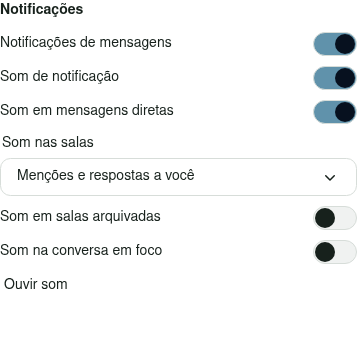
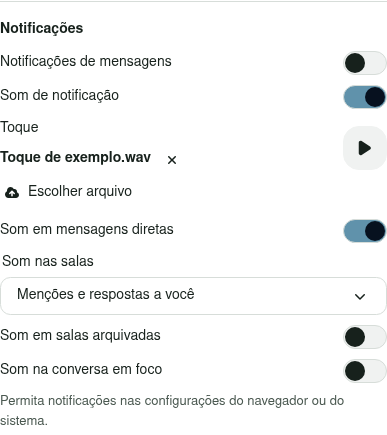
Document Oiê v0.0.1-rc.23

diff --git a/content/docs/cli/index.md b/content/docs/cli/index.md
@@ -6,7 +6,7 @@ language: pt-BR
 
 # CLI do Oiê
 
-O `oiectl` acessa um motor do Oiê em execução. Os exemplos usam uma instância local em `http://127.0.0.1:8080`. O [Oiê v0.0.1-rc.22](../../baixar/index.md) usa a API 0.34.0. A versão do CLI distribuída em separado acompanha o contrato 0.30.1.
+O `oiectl` acessa um motor do Oiê em execução. Os exemplos usam uma instância local em `http://127.0.0.1:8080`. O [Oiê v0.0.1-rc.23](../../baixar/index.md) usa a API 0.34.0. A versão do CLI distribuída em separado acompanha o contrato 0.30.1.
 
 ## Instalar o CLI
 
@@ -20,14 +20,14 @@ oiectl version v0.30.1 (spec openapi/engine/v0.30.1)
 
 ## Compilar e conectar
 
-Use Make e Go 1.27.4 ou mais recente para compilar e iniciar o Oiê a partir do [código-fonte da v0.0.1-rc.22](https://github.com/araihu/oie/tree/ffa480cb81a5b79287191a2220d554c4180be3ac).
+Use Make e Go 1.27.4 ou mais recente para compilar e iniciar o Oiê a partir do [código-fonte da v0.0.1-rc.23](https://github.com/araihu/oie/tree/c5c3f37aeb815dd9ee4a1e94512ebf7fd2467071).
 
 ```sh
 make build build-cli
 bin/oie --role local --listen 127.0.0.1:8080 --data-dir ./data-cli
 ```
 
-Os exemplos usam o CLI compilado com a rc.22. `bin/oiectl --version` mostra `oiectl version devel (OpenAPI 0.34.0)`. Se instalou o binário no `PATH`, use `oiectl` no lugar de `bin/oiectl`.
+Os exemplos usam o CLI compilado com a rc.23. `bin/oiectl --version` mostra `oiectl version devel (OpenAPI 0.34.0)`. Se instalou o binário no `PATH`, use `oiectl` no lugar de `bin/oiectl`.
 
 Em outro terminal, no mesmo checkout, confira a conexão com a API.
 
@@ -39,7 +39,7 @@ bin/oiectl system engine --output json
 
 Em um perfil novo, abra [a interface local](http://127.0.0.1:8080) no navegador. [Adicione e conecte sua conta XMPP](../manual/index.md#contas-xmpp). Em **Nova conversa**, informe outro endereço XMPP e selecione **Abrir conversa**. Ela aparecerá em `conversations list`.
 
-Para ver a conexão e o envio pela API em um ambiente de desenvolvimento, consulte o [exemplo com servidor XMPP local](https://github.com/araihu/oie/blob/ffa480cb81a5b79287191a2220d554c4180be3ac/README.md#connect-and-message-through-the-api). Para consultar um motor independente que já está em execução, ajuste `OIECTL_SERVER` ou use `--server` em um único comando. Para comandos que recebem JSON, use `--body-stdin` ou `--body-file`. Use um arquivo privado ou stdin para dados com senha.
+Para ver a conexão e o envio pela API em um ambiente de desenvolvimento, consulte o [exemplo com servidor XMPP local](https://github.com/araihu/oie/blob/c5c3f37aeb815dd9ee4a1e94512ebf7fd2467071/README.md#connect-and-message-through-the-api). Para consultar um motor independente que já está em execução, ajuste `OIECTL_SERVER` ou use `--server` em um único comando. Para comandos que recebem JSON, use `--body-stdin` ou `--body-file`. Use um arquivo privado ou stdin para dados com senha.
 
 Veja [Arquitetura e deploy](../arquitetura/index.md#motor-hospedado) para hospedar um motor e acessá-lo por uma conexão privada.
 
@@ -83,11 +83,11 @@ Confira o ID da conta com `oiectl accounts list`. O comando abaixo remove a cont
 oiectl accounts remove --account-id ID_DA_CONTA
 ```
 
-Use o CLI compilado a partir do código-fonte da rc.22 e um motor com a API 0.34.0 ou posterior.
+Use o CLI compilado a partir do código-fonte da rc.23 e um motor com a API 0.34.0 ou posterior.
 
 ## Pesquisar mensagens favoritas
 
-Com o CLI compilado da rc.22, consulte as mensagens favoritas pelo texto atual, remetente ou conversa de origem. Use `--account-id` ou `--conversation-id` para restringir a consulta.
+Com o CLI compilado da rc.23, consulte as mensagens favoritas pelo texto atual, remetente ou conversa de origem. Use `--account-id` ou `--conversation-id` para restringir a consulta.
 
 ```sh
 bin/oiectl messages stars list --q 'trilha' --output json

diff --git a/content/docs/instalacao/index.md b/content/docs/instalacao/index.md
@@ -39,11 +39,11 @@ Para remover o aplicativo e manter seu perfil, execute `sudo apt remove oie`.
 
 ## Instalar com Flatpak
 
-No Linux x86-64, baixe o [bundle Flatpak da v0.0.1-rc.22](https://github.com/araihu/oie/releases/download/v0.0.1-rc.22/oie-v0.0.1-rc.22-x86_64.flatpak). Adicione o Flathub se ainda não estiver cadastrado, para que o Flatpak possa baixar o runtime GNOME 51. Execute os comandos na pasta onde salvou o arquivo.
+No Linux x86-64, baixe o [bundle Flatpak da v0.0.1-rc.23](https://github.com/araihu/oie/releases/download/v0.0.1-rc.23/oie-v0.0.1-rc.23-x86_64.flatpak). Adicione o Flathub se ainda não estiver cadastrado, para que o Flatpak possa baixar o runtime GNOME 51. Execute os comandos na pasta onde salvou o arquivo.
 
 ```sh
 flatpak remote-add --user --if-not-exists flathub https://dl.flathub.org/repo/flathub.flatpakrepo
-flatpak install --user ./oie-v0.0.1-rc.22-x86_64.flatpak
+flatpak install --user ./oie-v0.0.1-rc.23-x86_64.flatpak
 ```
 
 Se você já usava o Flatpak da `rc.8` ou anterior, [migre seu perfil](#migrar-para-comaraihuoie) antes de abrir o novo Oiê. Depois, abra o aplicativo pelo menu ou execute `flatpak run com.araihu.oie`.
@@ -120,7 +120,7 @@ O pacote tem assinatura ad hoc. Se o macOS bloquear a abertura, tente abrir o Oi
 
 ## Compilar a partir do código-fonte
 
-Use Go 1.27.4 ou mais recente e compile no sistema e na arquitetura em que pretende usar o aplicativo. Nos exemplos, substitua `v0.0.1-rc.22` pela versão que você escolheu na página [Baixar](../../baixar/index.md). O comando instala o executável em `~/.local/bin`.
+Use Go 1.27.4 ou mais recente e compile no sistema e na arquitetura em que pretende usar o aplicativo. Nos exemplos, substitua `v0.0.1-rc.23` pela versão que você escolheu na página [Baixar](../../baixar/index.md). O comando instala o executável em `~/.local/bin`.
 
 ### Ubuntu 24.04 x86-64
 
@@ -137,7 +137,7 @@ pkg-config --modversion gtk4 webkitgtk-6.0 libsoup-3.0 gio-unix-2.0
 mkdir -p "$HOME/.local/bin"
 GOBIN="$HOME/.local/bin" GOFLAGS= GOWORK=off CGO_ENABLED=1 \
   GONOPROXY=github.com/araihu/oie \
-  go install -tags production github.com/araihu/oie/cmd/oie-desktop@v0.0.1-rc.22
+  go install -tags production github.com/araihu/oie/cmd/oie-desktop@v0.0.1-rc.23
 ```
 
 ### macOS com Apple Silicon
@@ -152,10 +152,10 @@ GOBIN="$HOME/.local/bin" GOFLAGS= GOWORK=off CGO_ENABLED=1 \
   CGO_CFLAGS="-O2 -g -mmacosx-version-min=13.0" \
   CGO_LDFLAGS="-O2 -g -mmacosx-version-min=13.0" \
   go install -tags production -ldflags='-extldflags=-mmacosx-version-min=13.0' \
-  github.com/araihu/oie/cmd/oie-desktop@v0.0.1-rc.22
+  github.com/araihu/oie/cmd/oie-desktop@v0.0.1-rc.23
 ```
 
-Os parâmetros de compilação e linkedição mantêm o mesmo alvo. Consulte o [escopo verificado no guia do repositório](https://github.com/araihu/oie/blob/ffa480cb81a5b79287191a2220d554c4180be3ac/docs/installation.md#platforms-and-verified-scope) para as versões de sistema testadas.
+Os parâmetros de compilação e linkedição mantêm o mesmo alvo. Consulte o [escopo verificado no guia do repositório](https://github.com/araihu/oie/blob/c5c3f37aeb815dd9ee4a1e94512ebf7fd2467071/docs/installation.md#platforms-and-verified-scope) para as versões de sistema testadas.
 
 ### Abrir pelo Terminal
 

diff --git a/content/docs/manual/index.md b/content/docs/manual/index.md
@@ -8,7 +8,7 @@ margo:
 
 # Manual do Oiê
 
-Este manual acompanha o [Oiê v0.0.1-rc.22](../../baixar/index.md).
+Este manual acompanha o [Oiê v0.0.1-rc.23](../../baixar/index.md).
 
 ## Motor local ou remoto
 
@@ -32,7 +32,7 @@ No rodapé da lista de conversas, abra **Trocar de conta** e selecione **Adicion
 
 Use **Trocar de conta** para ver todas as conversas ou filtrar por uma conta. Ao iniciar uma conversa, escolha a conta que você quer usar. As conversas de cada conta são independentes.
 
-Com a conta conectada, abra seus detalhes em **Gerenciar contas**. Em **Foto de perfil**, escolha uma imagem PNG, JPEG ou GIF de até 512 KB e selecione **Salvar foto**.
+Em **Gerenciar contas**, abra o **Perfil** da conta e use **Editar nome** e **Salvar nome** para alterar o nome mostrado no Oiê. Com a conta conectada, use **Editar foto**, escolha uma imagem PNG, JPEG ou GIF de até 512 KB e confira a prévia antes de selecionar **Salvar foto**.
 
 ![Seletor de contas do Oiê aberto, com as opções Todas as contas, Pessoal e Trabalho.](imagens/seletor-de-contas.webp "Seletor de contas")
 
@@ -97,11 +97,13 @@ Depois de percorrer o histórico, role até o fim ou use **Ir para as mais recen
 
 ## Notificações de mensagens
 
-Em **Configurações → Este dispositivo → Notificações**, ative **Notificações de mensagens** para receber banners e conceda a permissão quando o navegador ou o sistema pedir. Use **Ouvir som** para experimentar o toque de madeira e marimba.
+Em **Configurações → Este dispositivo → Notificações**, ative **Notificações de mensagens** para receber banners e conceda a permissão quando o navegador ou o sistema pedir.
 
 O som vem ativado para mensagens diretas e, nas salas, para menções e respostas a mensagens suas. Em **Som nas salas**, você pode escolher **Todas as mensagens**, manter **Menções e respostas a você** ou selecionar **Desativado**. Há controles para mensagens diretas, salas arquivadas e a conversa em foco. **Som de notificação** desliga todos os toques.
 
-![Controles de notificações de mensagens e som na aba Este dispositivo.](imagens/notificacoes.webp "Notificações de mensagens no Oiê")
+Use **Escolher arquivo** em **Toque** para usar um áudio seu de até 5 MB. O Oiê usa os primeiros dois segundos e guarda o toque neste dispositivo. Use o botão de reprodução para ouvi-lo ou o **X** ao lado do nome do arquivo para voltar ao toque do Oiê.
+
+![A seção Notificações mostra o arquivo Toque de exemplo.wav com o botão de reprodução, o X e a opção Escolher arquivo.](imagens/notificacoes.webp "Toque de notificação personalizado") [Ver captura completa](imagens/notificacoes-original.webp)
 
 Para silenciar uma conversa ou sala neste dispositivo, abra **Detalhes** no menu da conversa e ative **Silenciar notificações neste dispositivo**. Ao receber várias mensagens em sequência, o Oiê toca uma vez a cada dois segundos. O contador de mensagens não lidas continua funcionando.
 

diff --git a/content/baixar/index.md b/content/baixar/index.md
@@ -10,17 +10,17 @@ layout:
 
 # Baixar o Oiê
 
-Pré-lançamento v0.0.1-rc.22
+Pré-lançamento v0.0.1-rc.23
 
 Tenha em mãos uma conta XMPP para começar a conversar.
 
-- [macOS · Apple Silicon](https://github.com/araihu/oie/releases/download/v0.0.1-rc.22/oie_v0.0.1-rc.22_darwin_arm64.tar.gz)
-- [Ubuntu 24.04 · x86-64](https://github.com/araihu/oie/releases/download/v0.0.1-rc.22/oie_v0.0.1-rc.22_linux_amd64.tar.gz)
+- [macOS · Apple Silicon](https://github.com/araihu/oie/releases/download/v0.0.1-rc.23/oie_v0.0.1-rc.23_darwin_arm64.tar.gz)
+- [Ubuntu 24.04 · x86-64](https://github.com/araihu/oie/releases/download/v0.0.1-rc.23/oie_v0.0.1-rc.23_linux_amd64.tar.gz)
 
 ## Instalar com um gerenciador de pacotes
 
 - [APT](../docs/instalacao/index.md#instalar-com-apt) para Trisquel 12 e Ubuntu 24.04 x86-64.
-- [Flatpak](../docs/instalacao/index.md#instalar-com-flatpak) para Linux x86-64, com [download do bundle](https://github.com/araihu/oie/releases/download/v0.0.1-rc.22/oie-v0.0.1-rc.22-x86_64.flatpak).
+- [Flatpak](../docs/instalacao/index.md#instalar-com-flatpak) para Linux x86-64, com [download do bundle](https://github.com/araihu/oie/releases/download/v0.0.1-rc.23/oie-v0.0.1-rc.23-x86_64.flatpak).
 - [Homebrew](../docs/instalacao/index.md#instalar-com-homebrew) para macOS com Apple Silicon e Ubuntu 24.04 x86-64.
 
 O APT e o Homebrew seguem seus próprios canais de atualização.
@@ -32,12 +32,12 @@ Para rodar a versão web no Kubernetes, veja [Rodar no Kubernetes com Helm](../d
 O guia explica a primeira abertura no macOS e quais bibliotecas instalar no Ubuntu.
 
 - [Guia de instalação](../docs/instalacao/index.md)
-- [Notas da versão e instalador](https://github.com/araihu/oie/releases/tag/v0.0.1-rc.22)
-- [Somas de verificação SHA-256](https://github.com/araihu/oie/releases/download/v0.0.1-rc.22/SHA256SUMS)
+- [Notas da versão e instalador](https://github.com/araihu/oie/releases/tag/v0.0.1-rc.23)
+- [Somas de verificação SHA-256](https://github.com/araihu/oie/releases/download/v0.0.1-rc.23/SHA256SUMS)
 
 ## Código-fonte
 
 Os arquivos abaixo correspondem aos binários da versão e incluem as dependências incorporadas e as instruções de compilação.
 
-- [Código-fonte para macOS](https://github.com/araihu/oie/releases/download/v0.0.1-rc.22/oie_v0.0.1-rc.22_darwin_arm64_source.tar.gz)
-- [Código-fonte para Linux e imagem OCI](https://github.com/araihu/oie/releases/download/v0.0.1-rc.22/oie_v0.0.1-rc.22_linux_amd64_source.tar.gz)
+- [Código-fonte para macOS](https://github.com/araihu/oie/releases/download/v0.0.1-rc.23/oie_v0.0.1-rc.23_darwin_arm64_source.tar.gz)
+- [Código-fonte para Linux e imagem OCI](https://github.com/araihu/oie/releases/download/v0.0.1-rc.23/oie_v0.0.1-rc.23_linux_amd64_source.tar.gz)

diff --git a/content/docs/arquitetura/index.md b/content/docs/arquitetura/index.md
@@ -32,7 +32,7 @@ Veja os diagramas e o catálogo de tabelas e views em [Banco de dados](../banco-
 
 **Desktop.** [Instale o aplicativo](../../baixar/index.md) no macOS ou Linux. O motor e a interface rodam juntos no computador, e o aplicativo usa o diretório de dados do seu usuário. Fechar a janela mantém o motor ativo. Sair do aplicativo encerra o motor.
 
-**Navegador ou CLI.** Com Go 1.27.4 ou mais recente e Make, compile a partir do [código-fonte da v0.0.1-rc.22](https://github.com/araihu/oie/tree/ffa480cb81a5b79287191a2220d554c4180be3ac) e inicie a interface e a API na mesma porta.
+**Navegador ou CLI.** Com Go 1.27.4 ou mais recente e Make, compile a partir do [código-fonte da v0.0.1-rc.23](https://github.com/araihu/oie/tree/c5c3f37aeb815dd9ee4a1e94512ebf7fd2467071) e inicie a interface e a API na mesma porta.
 
 ```sh
 make build
@@ -47,7 +47,7 @@ A [imagem do Oiê](https://github.com/araihu/oie/pkgs/container/oie) roda o moto
 
 - `:latest` acompanha a versão mais recente marcada com uma tag, incluindo pré-lançamentos.
 - `:main` acompanha a versão de desenvolvimento.
-- Uma tag como `:v0.0.1-rc.22` seleciona uma versão específica.
+- Uma tag como `:v0.0.1-rc.23` seleciona uma versão específica.
 
 O volume `oie-data` guarda as contas, o histórico e os arquivos de mídia. Para atualizar com `:latest`, baixe a imagem com `docker pull ghcr.io/araihu/oie:latest`, pare e remova o contêiner antigo e execute novamente o comando do guia com o mesmo volume.
 
@@ -90,6 +90,6 @@ bin/oie --role bff --listen 127.0.0.1:8081 \
   --engine-url http://127.0.0.1:8080
 ```
 
-Nesse arranjo, a interface está na porta `8081` e o `oiectl` usa a porta `8080`. Só o motor abre o banco e se conecta ao XMPP. O desktop também pode usar um motor existente por meio de [`--engine-url`](https://github.com/araihu/oie/blob/ffa480cb81a5b79287191a2220d554c4180be3ac/docs/desktop.md#runtime-options).
+Nesse arranjo, a interface está na porta `8081` e o `oiectl` usa a porta `8080`. Só o motor abre o banco e se conecta ao XMPP. O desktop também pode usar um motor existente por meio de [`--engine-url`](https://github.com/araihu/oie/blob/c5c3f37aeb815dd9ee4a1e94512ebf7fd2467071/docs/desktop.md#runtime-options).
 
 O motor serve seu próprio contrato em `/api/openapi.yaml`. A referência da versão de desenvolvimento está no [catálogo OpenAPI da Arai Hû](https://oapi.araihu.com/catalogs/oie/documents/engine-next/).

diff --git a/README.md b/README.md
@@ -25,7 +25,7 @@ Ao atualizar **Baixar**, confira também os comandos e requisitos do [guia de in
 
 ## Documentação do Oiê
 
-A página **Baixar** aponta para os binários e para o código-fonte correspondente da [revisão da v0.0.1-rc.22](https://github.com/araihu/oie/tree/ffa480cb81a5b79287191a2220d554c4180be3ac).
+A página **Baixar** aponta para os binários e para o código-fonte correspondente da [revisão da v0.0.1-rc.23](https://github.com/araihu/oie/tree/c5c3f37aeb815dd9ee4a1e94512ebf7fd2467071).
 
 O manual, os atalhos, os exemplos do CLI e os guias de instalação e arquitetura foram revisados com a [main do aplicativo em 9929391](https://github.com/araihu/oie/tree/9929391579532045b61fcad8d8883f7e3a351215) e a [v0.0.1-rc.3](https://github.com/araihu/oie/releases/tag/v0.0.1-rc.3). Ao atualizar, registre o SHA das páginas revisadas e confira as notas da versão oferecida em **Baixar**. O contrato HTTP fica no [catálogo OpenAPI da Arai Hû](https://oapi.araihu.com/catalogs/oie/documents/engine-next/).
 
@@ -41,7 +41,7 @@ As seções de prévia e reprodução de vídeo foram conferidas na [revisão c0
 
 A seção **Retenção de mensagens** foi conferida na [revisão 505f6c9 do aplicativo](https://github.com/araihu/oie/tree/505f6c90632a68eea50db9dae92c55e2d533ed13), usada na rc.16. A captura foi feita com dados fictícios em uma instância isolada durante o desenvolvimento do recurso.
 
-A seção **Notificações de mensagens** acompanha a rc.21. A captura mostra as preferências em pt-BR em uma instância de teste. [Revisão do Oiê](https://github.com/araihu/oie/tree/f7bd401f5bc6e61c2b7e51f22709836899f74c32)
+A seção **Notificações de mensagens** e os controles de nome e foto no **Perfil** acompanham a rc.23. A captura de notificações mostra um áudio de exemplo importado numa instância de teste em pt-BR. [Revisão do Oiê](https://github.com/araihu/oie/tree/c5c3f37aeb815dd9ee4a1e94512ebf7fd2467071)
 
 A instalação do `oiectl` por release independente foi conferida com a [release cli/v0.30.1](https://github.com/araihu/oie/releases/tag/cli/v0.30.1), gerada a partir do [contrato no commit f21196a](https://github.com/araihu/oie/tree/f21196a6d8fe2d1b75180470ccd26089db5d6bb9/api).
 
